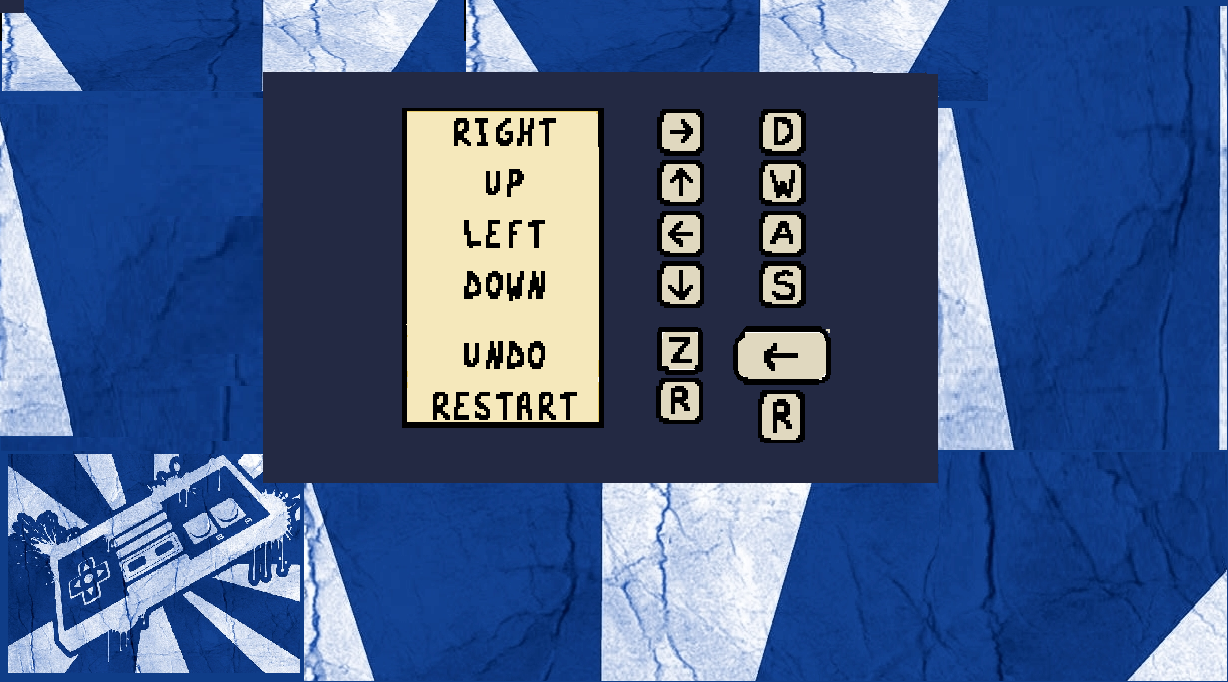
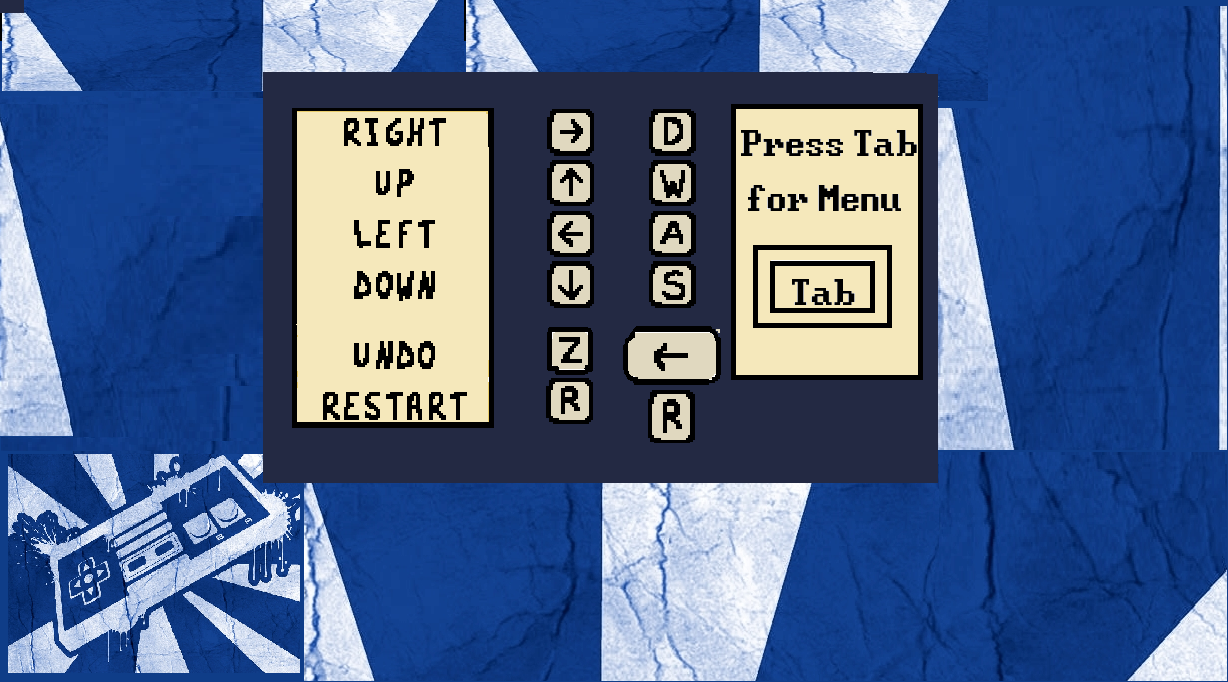
added some stuf to readme

Changed region(s): [[0.2166, 0.154, 0.7736, 0.6466]]

diff --git a/src/MenusAndCommandsCpp/MenusCpp/MainMenu.cpp b/src/MenusAndCommandsCpp/MenusCpp/MainMenu.cpp
@@ -10,6 +10,7 @@ MainMenu::MainMenu(sf::RenderWindow& gameWindeow)
 	//~~~~~~~~~~~~creating the buttons (the order of the adding is importent!!!!!!!!!)~~~~~~~~~~~~~~~~~
 	add(std::make_unique <NewGame>(m_cntrl, std::make_unique <sf::RectangleShape>(sf::Vector2f(430, 48))));
 	add(std::make_unique <LoadLevel>( std::make_unique <sf::RectangleShape>(sf::Vector2f(430, 48)),m_menuWindow,m_cntrl));
+	add(std::make_unique <Controls>(std::make_unique <sf::RectangleShape>(sf::Vector2f(430, 48)), m_menuWindow));
 	add(std::make_unique <ExitGame>(m_menuWindow, std::make_unique <sf::RectangleShape>(sf::Vector2f(430, 48))));
 
 

diff --git a/include/MenusAndCommandsHead/MenusHead/MainMenu.h b/include/MenusAndCommandsHead/MenusHead/MainMenu.h
@@ -3,7 +3,7 @@
 #include "ExitGame.h"
 #include"NewGame.h"
 #include"LoadLevel.h"
-
+#include "Controls.h"
 class MainMenu:public Menu{
 public:
 	

diff --git a/README.md b/README.md
@@ -30,6 +30,11 @@ Arrows move "you"
 Tab - shows mini-menu while in video
 Z - undo your previous action
 R - restart the board
+
+##Load Levels
+while in game after each level the game save its progress and can be accessesed from menu in option load leve(the levels are save in strings and not loaded 
+from the file again).
+
 ## Compile and run
 
 The levels of the game are pre-written into external file which the program reads. 
@@ -119,11 +124,14 @@ The generation of objects is done using Factory design-pattern
 	Resume.h
 	REturnToMenu,h
 	MaimMenu.h
-	Menu.h
+	Menu.h -
+			All the menu classes are derived from Menu.h, all of them have the same structure based on 'command' design-pattern.
+			each one of the menu's has to request in the constructor for elements needed in the commands(might be a screen or controller..). 
 	Menu2.h
 	MenuControls.h
 	MenuLevels.h
-	Header.h
+	Header.h -
+				makes it easy to create a sentence of animenated letters(an object which gets sstream and creates an animeted word)	.
 	BaseOperation.h - Abstract, for polymorphism on stack, has execute and undo, both cancel each other
 	NoOperation.h - does nothing, undo does nothing
 	OperationMove.h - moves to direction, undo moves to opposite
